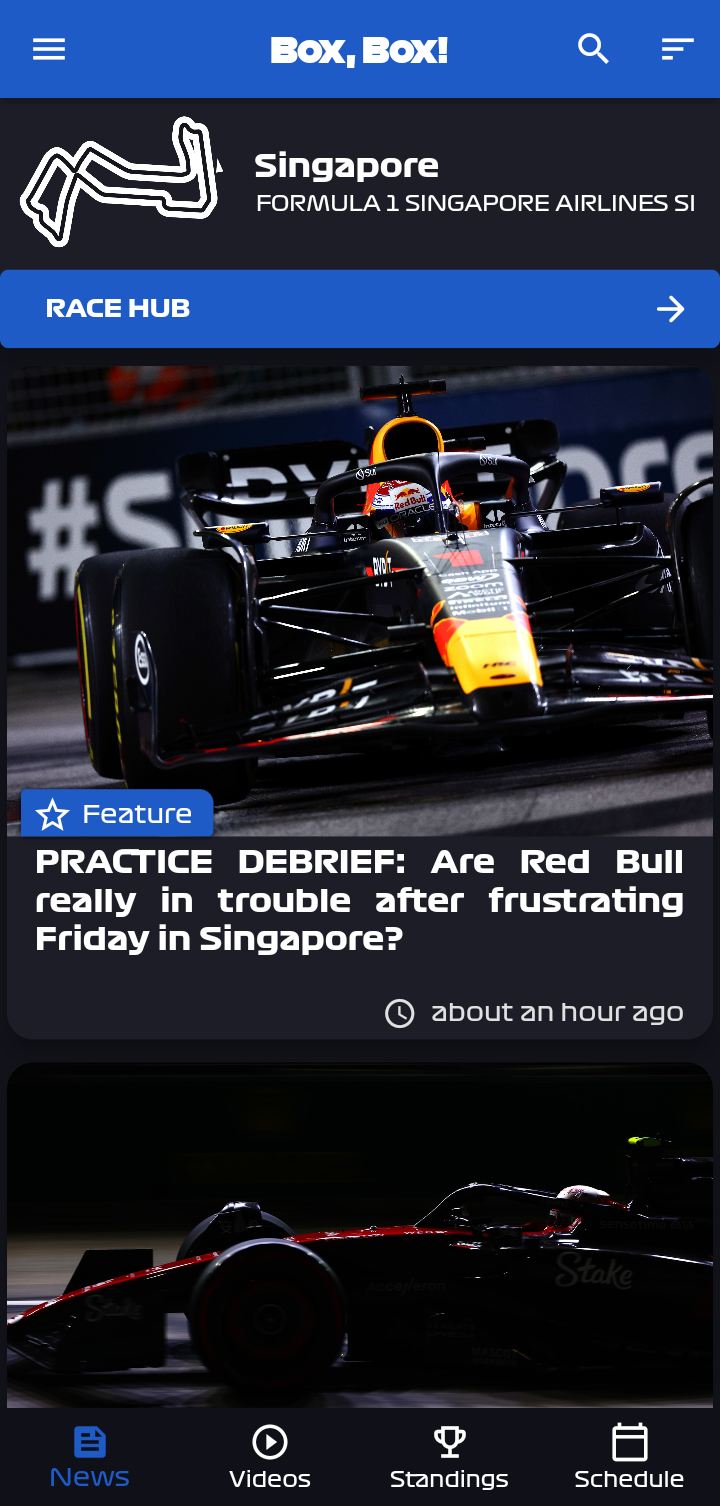
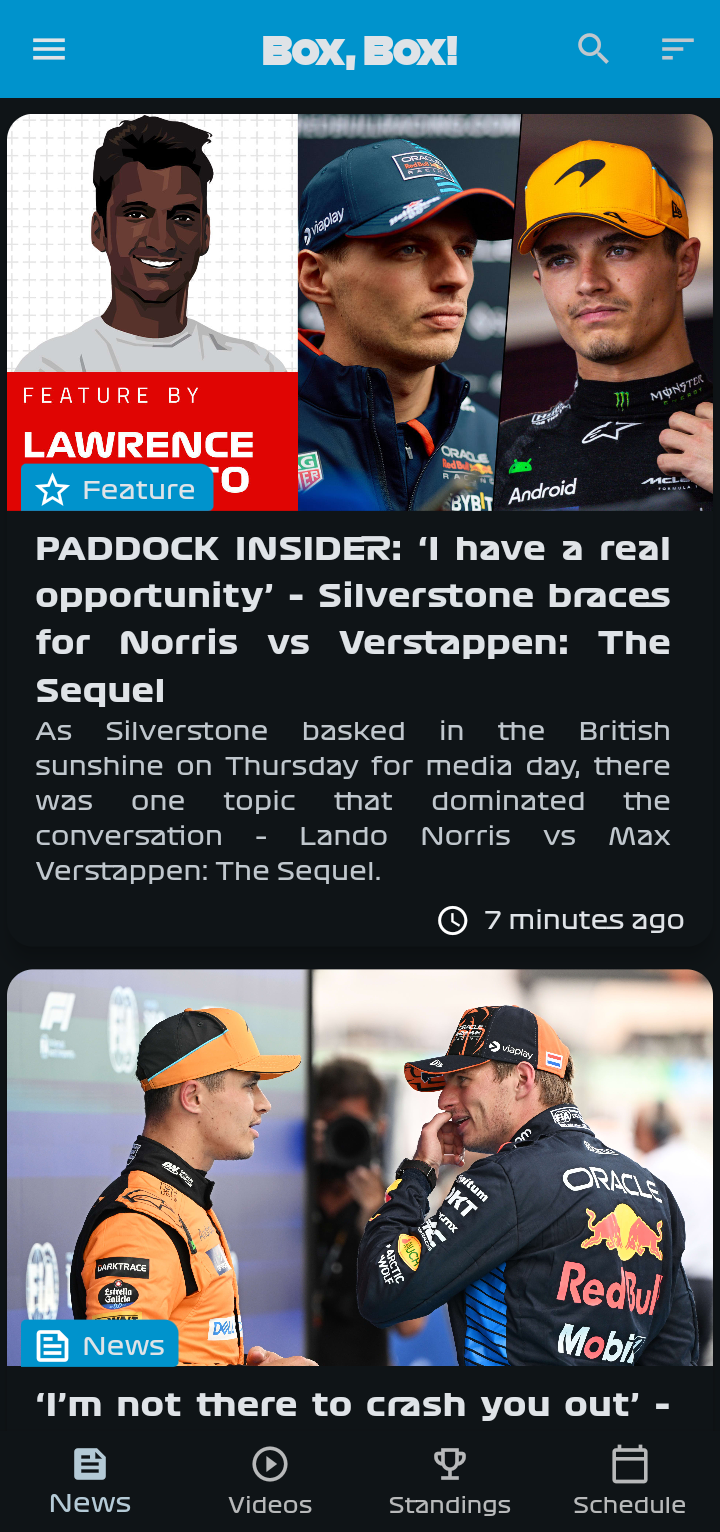
[meta] update to show support of fe; update screenshots; update free practice yt search

diff --git a/lib/Screens/free_practice_screen.dart b/lib/Screens/free_practice_screen.dart
@@ -183,8 +183,8 @@ class FreePracticeResultsList extends StatelessWidget {
                 var yt = YoutubeExplode();
                 final List<Video> searchResults = await yt.search.search(
                   sessionIndex == 10
-                      ? "$championship Free Practice $sessionIndex $raceName $raceYear"
-                      : "$championship Qualifyings $sessionIndex $raceName $raceYear",
+                      ? "$championship Qualifyings $raceName $raceYear"
+                      : "$championship Free Practice $sessionIndex $raceName $raceYear",
                 );
                 final Video bestVideoMatch = searchResults[0];
                 await launchUrl(

diff --git a/README.md b/README.md
@@ -1,6 +1,6 @@
 <p align="center"><img src="assets/images/icon.png" width="150"></a></p> 
 <h2 align="center"><b>Box, Box!</b></h2>
-<h4 align="center">Unofficial Android and web app for Formula 1 lovers!</h4>
+<h4 align="center">Unofficial Android and Web app for Formula 1 and Formula E fans!</h4>
 
 [![GitHub releases](https://img.shields.io/github/release/BrightDV/BoxBox?style=for-the-badge)](https://github.com/BrightDV/BoxBox/releases/latest)
 [![GitHub issues](https://img.shields.io/github/issues/BrightDV/BoxBox?style=for-the-badge)](https://github.com/BrightDV/BoxBox/issues)
@@ -10,7 +10,6 @@
 [![Github all releases](https://img.shields.io/github/downloads/BrightDV/BoxBox/total.svg?style=for-the-badge)](https://github.com/BrightDV/BoxBox/releases)
 [![Codeberg mirror](https://img.shields.io/badge/Mirror-Codeberg-blue?style=for-the-badge)](https://codeberg.org/BrightDV/BoxBox)
 ![https://hosted.weblate.org/engage/box-box/](https://img.shields.io/weblate/progress/box-box?style=for-the-badge)
-
 
 ## Download
 
@@ -31,13 +30,15 @@
 [<img src="fastlane/metadata/android/en-US/images/phoneScreenshots/5.png" width="235">](fastlane/metadata/android/en-US/images/phoneScreenshots/5.png)
 [<img src="fastlane/metadata/android/en-US/images/phoneScreenshots/6.png" width="235">](fastlane/metadata/android/en-US/images/phoneScreenshots/6.png)
 [<img src="fastlane/metadata/android/en-US/images/phoneScreenshots/7.png" width="235">](fastlane/metadata/android/en-US/images/phoneScreenshots/7.png)
+[<img src="fastlane/metadata/android/en-US/images/phoneScreenshots/8.png" width="235">](fastlane/metadata/android/en-US/images/phoneScreenshots/7.png)
+[<img src="fastlane/metadata/android/en-US/images/phoneScreenshots/9.png" width="235">](fastlane/metadata/android/en-US/images/phoneScreenshots/7.png)
 
 ## Features
 
 - Box, Box! is copylefted libre software, licensed GPLv3+.
 - No ads, no trackers or anything else.
-- Get the latest stories of your favorite driver and his ranking, even without any Internet connection*. \
-If you want, you can know where he is born and other personal info (not very useful though)…
+- Get the latest stories of your favorite driver and his ranking, even without any Internet connection\*. \
+  If you want, you can know where he is born and other personal info (not very useful though)…
 - In-app reader for all the editorial articles, with markdown!
 - Watch all the latest videos with a dedicated tab and a swipe-up!
 - Enjoy the app even at night with dark mode.
@@ -46,24 +47,33 @@ If you want, you can know where he is born and other personal info (not very use
 - Follow all the action on track with integrated WebView (live leaderboard).
 - View the results of all the sessions (free practices, qualifying, sprints and races).
 - Enjoy the race hub during a GP!
+- Follow both Formula 1 and Formula E from the same app!
 
-*You need to have Internet connection in order to refresh the data…
+\*You need to have Internet connection in order to refresh the data…
 
 ## Instances
-| Host    | URL |
-| -------- | ------- |
-| Official  | https://brightdv.github.io/boxbox/ |
+
+| Host     | URL                                |
+| -------- | ---------------------------------- |
+| Official | https://brightdv.github.io/boxbox/ |
 
 ## Services used
-| Screen  | Service          | URL |
-| :---------------: |:---------------:| :---------------:|
-| Home News  | Formula 1 API |  https://api.formula1.com |
-| Home Videos  | Formula 1 API |  https://api.formula1.com |
-| Articles search  | SearXNG |  [14 instances](lib/api/searx.dart#L26) |
-| Standings (Q, S and R)  | Ergast API |  https://ergast.com/mrd |
-| Standings (FP, Q, S and R)  | Formula 1 Archives |  https://formula1.com |
-| Schedule  |  Ergast API |  https://ergast.com/mrd |
-| Live Timing |  Formula 1 |  https://formula1.com |
+
+### Formula 1
+
+|           Screen           |      Service       |                  URL                   |
+| :------------------------: | :----------------: | :------------------------------------: |
+|         Home News          |   Formula 1 API    |        https://api.formula1.com        |
+|        Home Videos         |   Formula 1 API    |        https://api.formula1.com        |
+|      Articles search       |      SearXNG       | [14 instances](lib/api/searx.dart#L26) |
+|   Standings (Q, S and R)   |     Ergast API     |         https://ergast.com/mrd         |
+| Standings (FP, Q, S and R) | Formula 1 Archives |          https://formula1.com          |
+|          Schedule          |     Ergast API     |         https://ergast.com/mrd         |
+|        Live Timing         |     Formula 1      |          https://formula1.com          |
+
+### Formula E
+
+Everything comes from the same API (Formula E API): https://api.formula-e.pulselive.com.
 
 ## Translation
 
@@ -74,12 +84,14 @@ Help translate _Box, Box!_ on [Hosted Weblate](https://hosted.weblate.org/projec
 </a>
 
 Or, manually:
+
 - Create a file named **[your language ISO code, like en, fr, etc].arb**
-Theses files are used by Flutter to provide you the translation.
+  These files are used by Flutter to provide you the translation.
 - Translate [this file](lib/l10n/app_en.arb) to your language (only the text between the quotes).
 - Finally, make a pull request or an issue and attach the code to it.
 
 The app is currently available in:
+
 - 🇬🇧 English
 - 🇫🇷 French
 - 🌐 Arabic, thanks to [@Music47ell](https://github.com/Music47ell)
@@ -98,7 +110,8 @@ The app is currently available in:
 and thanks to the other translators!
 
 ## License
-[![GNU GPLv3 Image](https://www.gnu.org/graphics/gplv3-127x51.png)](https://www.gnu.org/licenses/gpl-3.0.en.html)  
+
+[![GNU GPLv3 Image](https://www.gnu.org/graphics/gplv3-127x51.png)](https://www.gnu.org/licenses/gpl-3.0.en.html)
 
 ```
 Box, Box! is Free Software: You can use, study, share, and improve it at
@@ -109,11 +122,14 @@ published by the Free Software Foundation, either version 3 of the License, or
 ```
 
 ## Notes
+
 I'm developing this app in my free time, so I appreciate feedback and welcome PRs!
 
-(_Box, Box!_ is unofficial software and in no way associated with the Formula 1 group of companies.)
+(_Box, Box!_ is unofficial software and in no way associated with the Formula 1 group of companies nor the Formula E group of companies.)
 
 Some interesting Formula 1 related projects:
+
 - The amazing [Ergast API](https://ergast.com/mrd).
 - [bacinger/f1-circuits](https://github.com/bacinger/f1-circuits): geo points for the map of each circuit.
 - [theOehrly/Fast-F1](https://github.com/theOehrly/Fast-F1): client for live telemetry (upcoming) and stats, in Python.
+- [slowlydev/f1-dash](https://github.com/slowlydev/f1-dash): feature-rich livetiming webview used by the app.
